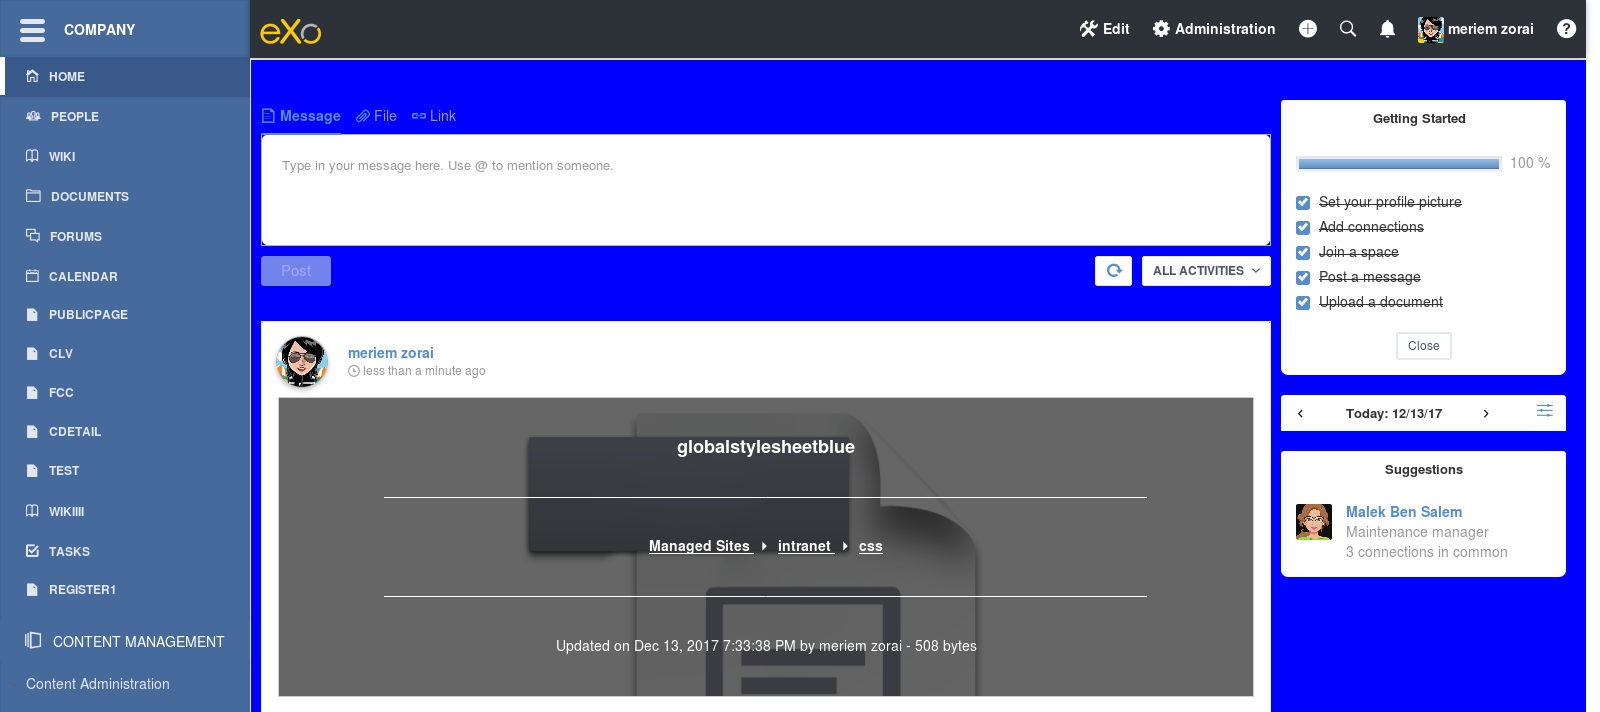
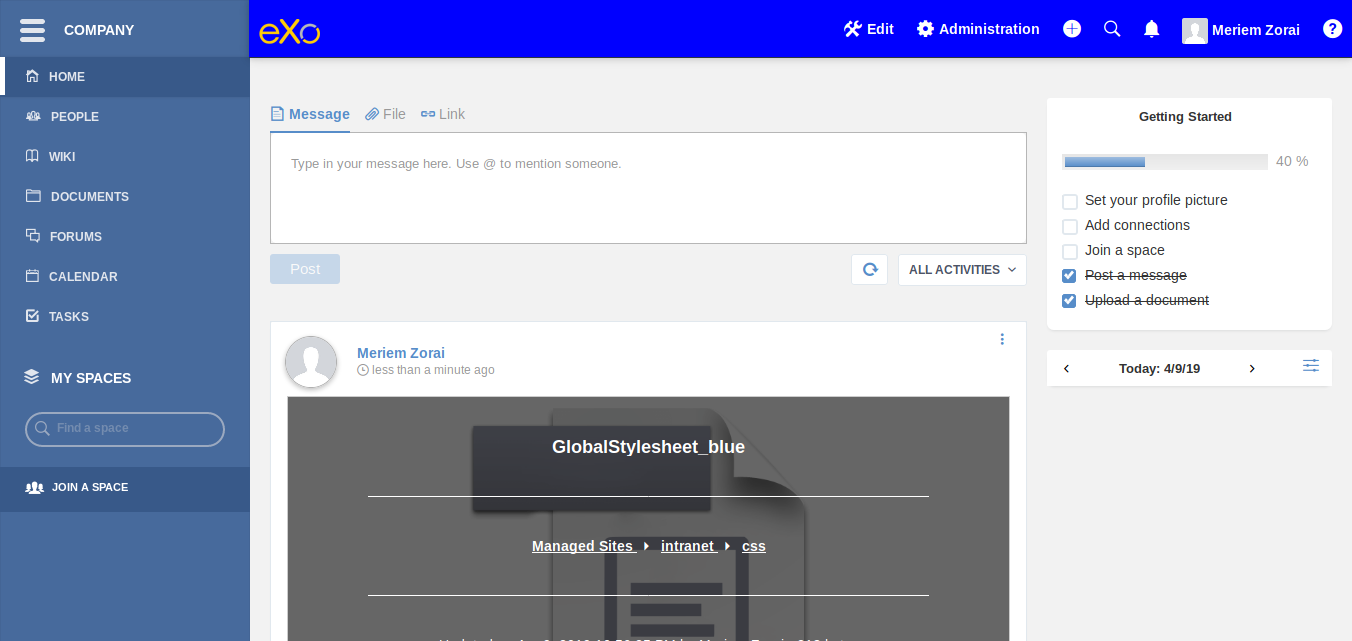
DOC-4265: Update screen shots + fix identation

diff --git a/docs/Administration.rst b/docs/Administration.rst
@@ -214,7 +214,7 @@ Creating a global stylesheet
    
 		.UIToolbarContainerDark .NormalContainerBlock .ToolbarContainer {
 			background-color: orange;
-            background-image: none;
+                        background-image: none;
 			background-repeat: repeat-x;
 			border-bottom: 1px solid #2C3440;
 		}
@@ -226,15 +226,23 @@ You will see your global stylesheet in the Sites Management panel.
 
 |image9|
 
-.. note::  -  The values in both of the Active and Priority fields decide if your newly created global stylesheet is applied into your site successfully or not. 
-			  If the Active field is set to "True" in many global stylesheets, the system will automatically merge all the global stylesheets into the ``${site-name}/Default/Stylesheet-min-lt.css`` file of the css folder in the ascending order and get the stylesheet with the highest priority. 
-			  Thus, after selecting "True", to make sure that your stylesheet is applied, you need to pay attention to the priority level so that the selected priority of your stylesheet is higher than those of other global stylesheets in the css folder.
+.. note::  
+           -  The values in both of the Active and Priority fields decide if your newly created global stylesheet is applied into 
+              your site successfully or not.
 
-		   -  The default global stylesheet will be automatically created in the css folder when you create a new site. 
-		      However, this global stylesheet can be overwritten by either setting "False" for its Active field or setting the higher priority for other global stylesheet than that of the default global stylesheet.
+	   -  If the Active field is set to "True" in many global stylesheets, the system will automatically merge all the global 
+	      stylesheets into the ``${site-name}/Default/Stylesheet-min-lt.css`` file of the css folder in the ascending order 
+	      and get the stylesheet with the highest priority. 
+	      Thus, after selecting "True", to make sure that your stylesheet is applied, you need to pay attention to the priority 
+	      level so that the selected priority of your stylesheet is higher than those of other global stylesheets in the css folder.
 
-		   -  When you want to create a common stylesheet to share for all sites in the portal, you should create one in the 
-		      Sites Management/shared/css folder. This stylesheet will be rendered and applied into your desired site when you switch to it.
+	   -  The default global stylesheet will be automatically created in the css folder when you create a new site. 
+	      However, this global stylesheet can be overwritten by either setting "False" for its Active field or setting the higher 
+	      priority for other global stylesheet than that of the default global stylesheet.
+              
+            -  When you want to create a common stylesheet to share for all sites in the portal, you should create one in the 
+	      Sites Management/shared/css folder. This stylesheet will be rendered and applied into your desired site when you 
+	      switch to it.
 
 .. _EditGlobalStylesheet:
 
